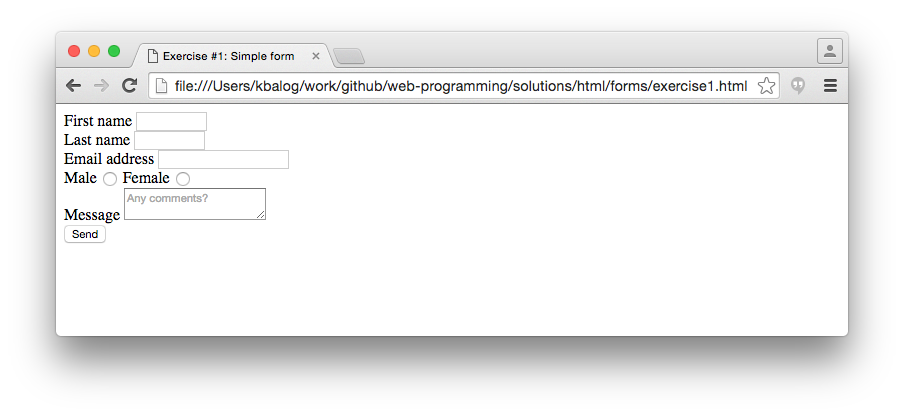
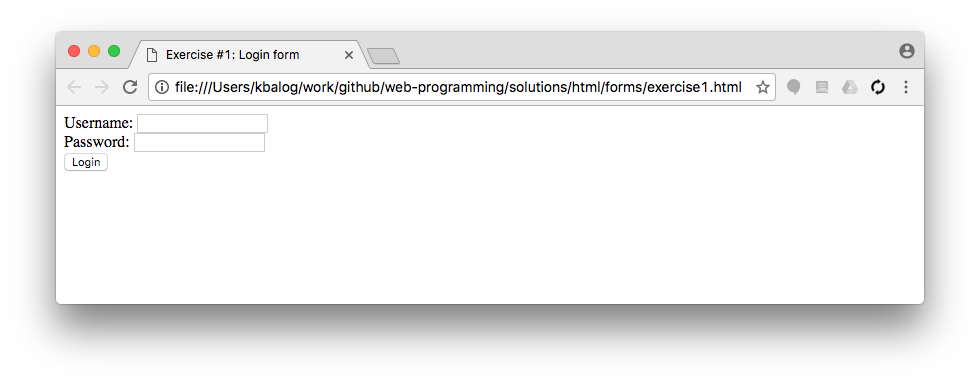
HTML forms

Changed region(s): [[0.031, 0.0938, 0.9602, 0.8125], [0.2788, 0.5, 0.3097, 0.5312]]

diff --git a/solutions/html/forms/exercise4.html b/solutions/html/forms/exercise4.html
@@ -3,6 +3,25 @@
 <head>
     <title>Exercise #2: Subscription form</title>
     <meta charset="UTF-8">
+    <style>
+        fieldset {
+            background-color: #ffffcc;
+            margin: 0 auto;
+            width: 21em;
+        }
+
+        label {
+            width: 7em;
+            float: left;
+            margin-right: 1em;
+            text-align: right;
+        }
+
+        #button {
+            margin-top: 0.5em;
+            text-align: center;
+        }
+    </style>
 </head>
 <body>
 <form action="">

diff --git a/solutions/html/forms/exercise1b.html b/solutions/html/forms/exercise1b.html
@@ -2,10 +2,10 @@
 <html lang="en">
 <head>
     <meta charset="UTF-8">
-    <title>Exercise #1: Login form</title>
+    <title>Exercise #1b: Sending form data</title>
 </head>
 <body>
-    <form action="">
+    <form action="http://www3.ux.uis.no/~balog/dat310/formtest.php" method="POST">
         Username: <input type="text" name="username" /> <br />
         Password: <input type="password" name="pw" /><br />
         <input type="submit" value="Login" />

diff --git a/exercises/html/forms/README.md b/exercises/html/forms/README.md
@@ -1,17 +1,22 @@
 # HTML forms
 
-## Exercise #1: Simple form
 
-Create the form below.
+## Exercise #1: Login form
 
-  - First and last name have a width of 10 characters; the user may enter up to 20 characters in each.
-  - Email has a width of 20 characters; the user may enter an email address up to 35 characters long.
-    * Use the HTML5 email input type.
-  - First and last names, and email are obligatory. The other fields are optional.
-  - Label the input elements using `<label>`.
-  - The submit button should have the label _Send_.
+  - Create a login form with two fields and a submit button
+  - The first field is called `username`.
+  - The second field is called `pw`.
+  - The submit button should have the label _Login_.
+  - Leave the `action` attribute of the form empty
 
-![Exercise1](images/exercise1.png)
+  ![Exercise1](images/exercise1.png)
+
+
+## Exercise #1b: Sending form data
+
+  - Set the `action` of the previous form to `http://www3.ux.uis.no/~balog/dat310/formtest.php`.
+  - Check what happens upon submitting the form.
+  - Which form `method` should you use in this case: `GET` or `POST`?
 
 
 ## Exercise #2: Subscription form
@@ -24,15 +29,24 @@ Create the form below.
   - List of magazines to be selected with checkboxes.
   - Subscription period as a select list: 6, 12, 18, or 24 months.
   - The submit button is labeled as "Subscribe".
-  - Use css to style the form:
-    * Set a fixed width for the fieldsets, apply a background color, and align them in the middle of the page. 
-    * Align the fields. (Hint: you can set the width property of the `<label>` tag.)
-    * Align the submit button in the middle of the page.
-
-![Exercise2](images/exercise2.png)
 
 
-## Exercise #3: HTML5 form elements
+## Exercise #3: Subscription form (2)
+
+  - Label and group the fields
+
+
+## Exercise #4: Subscription form (3)
+
+- Use css to style the form you created in the previous exercise:
+  * Set a fixed width for the fieldsets, apply a background color, and align them in the middle of the page.
+  * Align the fields. (Hint: you can set the width property of the `<label>` tag.)
+  * Align the submit button in the middle of the page.
+
+![Exercise4](images/exercise4.png)
+
+
+## Exercise #5: HTML5 form elements
 
 Try some of the [HTML5 input types](www.w3schools.com/html/html_form_input_types.asp), e.g., color, url, search, date, etc.
 How are these displayed in different browsers?

diff --git a/README.md b/README.md
@@ -17,7 +17,7 @@ This repository contains examples and exercises from the 2017 spring DAT310 Web 
 | 19/01 Thu | CSS Part II. (selectors) | [slides](https://speakerdeck.com/kbalog/web-programming-css-part-ii), [examples](examples/css/selectors), [exercises](exercises/css/selectors), [solutions](solutions/css/selectors) |
 | 20/01 Fri | Lab | |
 | 23/01 Mon | CSS Part III. (positioning) | [slides](https://speakerdeck.com/kbalog/web-programming-css-part-iii), [examples](examples/css/positioning), [exercises](exercises/css/positioning), [solutions](solutions/css/positioning) |
-| 26/01 Thu | HTML Forms | |
+| 26/01 Thu | HTML Forms | [slides](https://speakerdeck.com/kbalog/web-programming-html-forms), [examples](examples/html/forms), [exercises](exercises/html/forms), [solutions](solutions/html/forms) |
 | 27/01 Fri | Lab | |
 | 30/01 Mon | JavaScript Part I. (basics) | |
 | 02/02 Thu | JavaScript Part II. (events, DOM) | |
